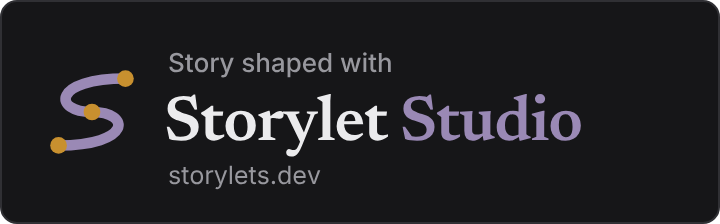
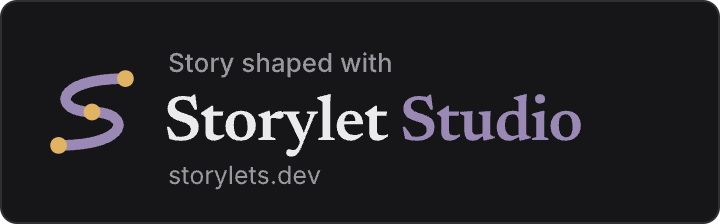
Branding: Storyletter's About box sets "ter" in amber as the brand wordmark does, and the dark badges' beats take the light amber
Regenerated by patterkit/branding/badges; the light and one-colour badges are byte-identical. PNGs and zip updated.

Changed region(s): [[0.0917, 0.4688, 0.1528, 0.5312], [0.1528, 0.3125, 0.1833, 0.4062], [0.0611, 0.5938, 0.0917, 0.6875]]

diff --git a/packages/studio/src/renderer/src/wordmark.ts b/packages/studio/src/renderer/src/wordmark.ts
@@ -6,7 +6,8 @@
 // as Patterpad's does.
 //
 // Inline rather than a file so the word renders in the app's own reading face
-// and follows the theme's ink. The thread is the brand's, never the theme ink:
+// and follows the theme's ink, with "ter" in amber as the brand wordmark sets it
+// (storylets/branding/wordmarks/storyletter.svg). The thread is the brand's, never the theme ink:
 // plum and amber on a light palette, and on a dark one the lilac and light
 // amber the dark docs wordmark uses (light-dark() follows the palette's
 // --color-scheme). The geometry and colours are the website header's.
@@ -17,5 +18,5 @@ export const STORYLETTER_WORDMARK =
   '<path d="M88 12 C5 12 5 50 50 50 C95 50 95 88 12 88" style="stroke:light-dark(#36284a,#9a89b5)" stroke-width="12" stroke-linecap="round"/>' +
   '<circle cx="88" cy="12" r="9.5" style="fill:light-dark(#c8902f,#e0b463)"/><circle cx="12" cy="88" r="9.5" style="fill:light-dark(#c8902f,#e0b463)"/><circle cx="50" cy="50" r="9.5" style="fill:light-dark(#c8902f,#e0b463)"/>' +
   "</g></g>" +
-  '<text x="232" y="150" font-family="var(--font-read), Georgia, serif" font-weight="500" font-size="120" letter-spacing="-2" fill="var(--ink)">Storyletter</text>' +
+  '<text x="232" y="150" font-family="var(--font-read), Georgia, serif" font-weight="500" font-size="120" letter-spacing="-2" fill="var(--ink)">Storylet<tspan style="fill:light-dark(#c8902f,#e0b463)">ter</tspan></text>' +
   "</svg>";
